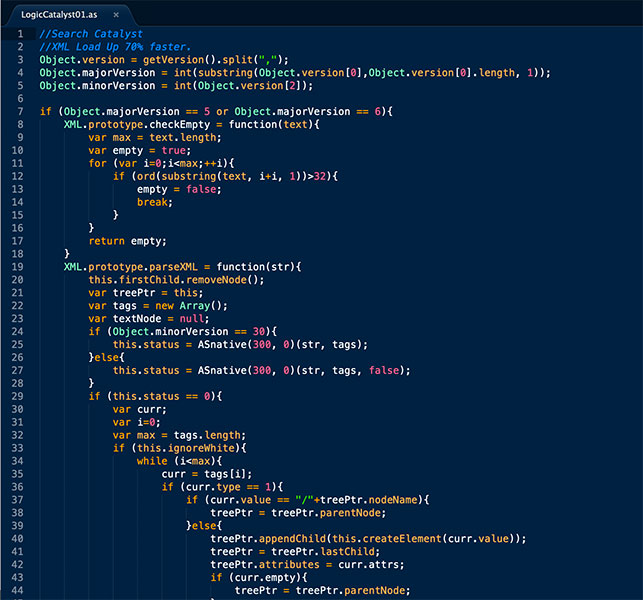
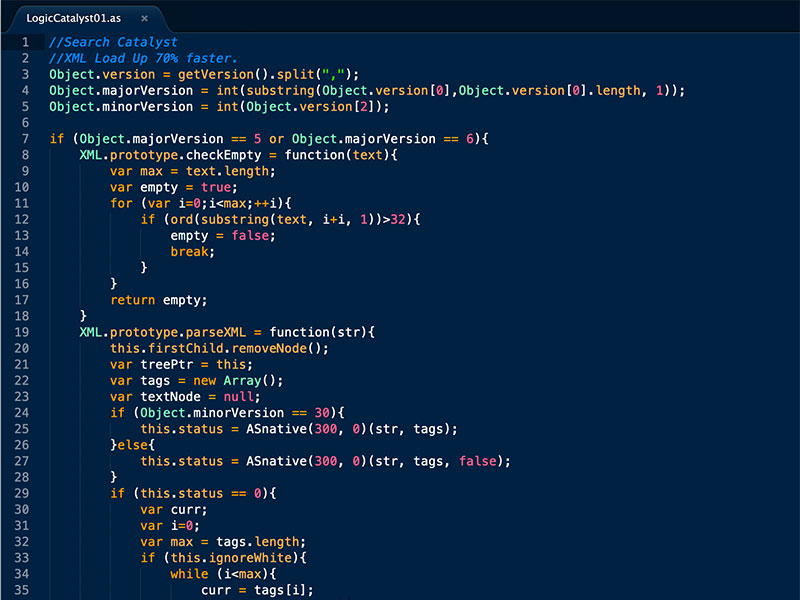
corrected many layout issues

Changed region(s): [[0.0, 0.0, 1.0, 1.0], [0.0, 0.24, 0.0622, 1.0]]

diff --git a/pages/ml-vs-uber.jsx b/pages/ml-vs-uber.jsx
@@ -8,7 +8,7 @@ const UniversityArticle = () => {
     <Layout footer={5}>
       {/* Page Banner Section Start */}
       <section
-        className="page-banner pt-210 rpt-150 pb-50 rel z-1"
+        className="page-banner pt-70 rpt-150 pb-50 rel z-1"
         style={{ backgroundImage: "url(assets/images/hero/hero-two-bg.png)" }}
       >
         <div className="container container-1290">
@@ -32,8 +32,8 @@ const UniversityArticle = () => {
       </div>
       {/* Project Details Image end */}
       {/* Project Details Content Area start */}
-      <section className="project-details-area rel z-1">
-        <div className="container container-1290">
+      <section className="project-details-area pb-50 rel z-1">
+        <div className="container container-1210">
           <div className="banner-inner">
             <div className="row">
               <div className="col-xl-8">
@@ -51,9 +51,12 @@ const UniversityArticle = () => {
                     <a href="#">Comment (5)</a>
                   </li>*/}
                 </ul>
-                <h1 className="page-title wow fadeInUp delay-0-3s">
-                  Duly Noded: Michael Logic™ vs. Uber Engineering Team
+                <h1 className="university-title wow fadeInUp delay-0-3s">
+                  Duly Noded:
                 </h1>
+                <h2>
+                   Michael Logic™ vs. Uber Engineering Team
+                </h2>
               </div>
             </div>
           </div>
@@ -62,9 +65,9 @@ const UniversityArticle = () => {
       {/* Project Details Content Area End */}
 
       {/* University Article Kickoff start */}
-      <section className="university-kickoff-area pb-100 rpb-70 rel z-1">
-        <div className="container container-1210">
-          <div className="section-title mb-40 wow fadeInUp delay-0-2s">
+      <section className="university-kickoff-area pb-60 rpb-70 rel z-1">
+        <div className="container container-1210 justify-content-center">
+          <div className="section-title col-lg-8 mb-40 wow fadeInUp delay-0-2s">
             <h2>Gain insight on cloud system architecture that performs at the level of Uber's engineering.</h2>
             <div className="text mt-30">
               <h4>
@@ -103,7 +106,7 @@ const UniversityArticle = () => {
             </div>
           </div>
           
-          <div className="why-choose-item wow fadeInUp delay-0-2s">
+          <div className="why-choose-item col-lg-8 wow fadeInUp delay-0-2s">
             <div className="why-choose-header">
               <i className="far fa-chevron-right" />
               <h5>High-throughput and low-latency requirements</h5>
@@ -114,7 +117,7 @@ const UniversityArticle = () => {
             </p>
           </div>
 
-          <div className="why-choose-item wow fadeInUp delay-0-2s">
+          <div className="why-choose-item col-lg-8 wow fadeInUp delay-0-2s">
             <div className="why-choose-header">
               <i className="far fa-chevron-right" />
               <h5>CPU intensive workload</h5>
@@ -125,7 +128,7 @@ const UniversityArticle = () => {
             </p>
           </div>
 
-          <div className="why-choose-item wow fadeInUp delay-0-2s">
+          <div className="why-choose-item col-lg-8 wow fadeInUp delay-0-2s">
             <div className="why-choose-header">
               <i className="far fa-chevron-right" />
               <h5>Non-disruptive background loading</h5>
@@ -138,7 +141,7 @@ const UniversityArticle = () => {
             </p>
           </div>
 
-          <div className="text mt-30">
+          <div className="text col-lg-8 mt-30">
             <p>
               As one may have experienced, Uber's engineering team used Go to produce a reliable user 
               experience.  Their geofence microservice performs well despite the decision to settle for
@@ -151,7 +154,7 @@ const UniversityArticle = () => {
       {/* How We Works end */}
 
       {/* Mike Logic Game Dev Background start */}
-      <div className="university-gamer-area pt-120 pb-90 rpt-100 rpb-70">
+      <div className="university-gamer-area pb-90 rpt-100 rpb-70">
         <div className="row justify-content-center">
           <div className="col-xl-7 col-lg-9 wow fadeInUp delay-0-2s">
             <div className="section-title style-two text-center mb-70">
@@ -203,7 +206,7 @@ const UniversityArticle = () => {
               <div className="project-item style-five wow fadeInUp delay-0-2s">
                 <div className="image">
                   <img
-                    src="assets/images/projects/university/flash_wordsearch02.jpg"
+                    src="assets/images/university/flash_wordsearch02.jpg"
                     alt="BennyWordSearch"
                   />
                 </div>
@@ -219,7 +222,7 @@ const UniversityArticle = () => {
               <div className="project-item style-five wow fadeInUp delay-0-2s">
                 <div className="image">
                   <img
-                    src="assets/images/projects/university/flash_wordsearch.jpg"
+                    src="assets/images/university/flash_wordsearch.jpg"
                     alt="BennyWordSearch"
                   />
                 </div>
@@ -235,7 +238,7 @@ const UniversityArticle = () => {
               <div className="project-item style-five wow fadeInUp delay-0-2s">
                 <div className="image">
                   <img
-                    src="assets/images/projects/university/flash_molemath.jpg"
+                    src="assets/images/university/flash_molemath.jpg"
                     alt="MoleMath"
                   />
                 </div>
@@ -251,7 +254,7 @@ const UniversityArticle = () => {
               <div className="project-item style-five wow fadeInUp delay-0-2s">
                 <div className="image">
                   <img
-                    src="assets/images/projects/university/flash_goohealthy.jpg"
+                    src="assets/images//university/flash_goohealthy.jpg"
                     alt="GooHealthy"
                   />
                 </div>
@@ -266,7 +269,7 @@ const UniversityArticle = () => {
           </Swiper>
         </div>
         <div className="container container-1210">
-          <div className="mb-40 wow fadeInUp delay-0-2s">
+          <div className="col-lg-8 mb-40 wow fadeInUp delay-0-2s">
             <p>
               Before discussing a Michael Logic type of solution of Uber's needs, it is insightful
               know the background story for my current methodology.  I started delivering professional
@@ -278,7 +281,7 @@ const UniversityArticle = () => {
             <h4>
               The Game Loop
             </h4>
-            <div className="row justify-content-center image wow fadeInUp delay-0-2s">
+            <div className="row justify-content-center pb-30 image wow fadeInUp delay-0-2s">
               <img
                 src="assets/images/university/game-loop-fixed.png"
                 alt="Game Loop Mastered"
@@ -315,18 +318,18 @@ const UniversityArticle = () => {
 
       {/* Myths about NodeJS Area start */}
       <section className="university-node-area py-60 rel z-1">
-        <div className="container container-1290">
-          <div className="row justify-content-between align-items-center">
+        <div className="container container-1210">
+          <div className="justify-content-between align-items-center">
             <div className="col-lg-6">
-              <div className="service-about-image wow fadeInLeft delay-0-2s">
+              <div className="service-about-image wow fadeInUp delay-0-2s">
                 <img
                   src="assets/images/university/node_event_loop.png"
                   alt="NodeJS Event Loop"
                 />
               </div>
             </div>
-            <div className="col-xl-5 col-lg-6 mx-xl-auto">
-              <div className="about-content wow fadeInRight delay-0-4s">
+            <div className="col-lg-8 mx-xl-auto">
+              <div className="about-content wow fadeInUp delay-0-4s">
                 <div className="section-title mb-40">
                   <span className="sub-title mb-15">"Don't Go All Static on me ;-)  LOL"</span>
                   <h3>False Myths about NodeJS</h3>
@@ -408,111 +411,8 @@ const UniversityArticle = () => {
           </div>
         </div>
 
-        <div className="container-fluid">
-          <Swiper
-            {...sliderProps.galleryFiveActive}
-            className="gallery-five-active"
-          >
-            <SwiperSlide>
-              <div className="project-item style-five wow fadeInUp delay-0-2s">
-                <div className="image">
-                  <img
-                    src="assets/images/university/actionscript_code.jpg"
-                    alt="ActionScript Code"
-                  />
-                </div>
-                <div className="content">
-                  <h4>
-                    ActionScript Gaming
-                  </h4>
-                </div>
-              </div>
-            </SwiperSlide>{" "}
-
-            <SwiperSlide>
-              <div className="project-item style-five wow fadeInUp delay-0-2s">
-                <div className="image">
-                  <img
-                    src="assets/images/university/flash_alphabuzz.jpg"
-                    alt="AlphaBuzz"
-                  />
-                </div>
-                <div className="content">
-                  <h4>
-                    AlphaBuzz: teaches kids typing
-                  </h4>
-                </div>
-              </div>
-            </SwiperSlide>{" "}
-
-            <SwiperSlide>
-              <div className="project-item style-five wow fadeInUp delay-0-2s">
-                <div className="image">
-                  <img
-                    src="assets/images/projects/university/flash_wordsearch02.jpg"
-                    alt="BennyWordSearch"
-                  />
-                </div>
-                <div className="content">
-                  <h4>
-                    Benny Wordz: teaches kids spelling
-                  </h4>
-                </div>
-              </div>
-            </SwiperSlide>{" "}
-
-            <SwiperSlide>
-              <div className="project-item style-five wow fadeInUp delay-0-2s">
-                <div className="image">
-                  <img
-                    src="assets/images/projects/university/flash_wordsearch.jpg"
-                    alt="BennyWordSearch"
-                  />
-                </div>
-                <div className="content">
-                  <h4>
-                    Benny Wordz: teaches kids spelling
-                  </h4>
-                </div>
-              </div>
-            </SwiperSlide>{" "}
-
-            <SwiperSlide>
-              <div className="project-item style-five wow fadeInUp delay-0-2s">
-                <div className="image">
-                  <img
-                    src="assets/images/projects/university/flash_molemath.jpg"
-                    alt="MoleMath"
-                  />
-                </div>
-                <div className="content">
-                  <h4>
-                    Mole Math: teaches kids math
-                  </h4>
-                </div>
-              </div>
-            </SwiperSlide>{" "}
-
-             <SwiperSlide>
-              <div className="project-item style-five wow fadeInUp delay-0-2s">
-                <div className="image">
-                  <img
-                    src="assets/images/projects/university/flash_goohealthy.jpg"
-                    alt="GooHealthy"
-                  />
-                </div>
-                <div className="content">
-                  <h4>
-                    GooHealthy: teaches kids nutrition
-                  </h4>
-                </div>
-              </div>
-            </SwiperSlide>{" "}
-            
-          </Swiper>
-        </div>
         <div className="container container-1210">
-          <div className="mb-40 wow fadeInUp delay-0-2s">
+          <div className="col-lg-8 wow fadeInUp delay-0-2s">
             <p>
               Michael Logic "Paperclip" Architecture is intended to support super-optimized, reactive
               methodologies that sport a highly cooridinated dance of a stack that is dynamically typed
@@ -520,7 +420,7 @@ const UniversityArticle = () => {
             </p>
             <div className="row justify-content-center image wow fadeInUp delay-0-2s">
               <img
-                src="assets/images/university/ml_paperclip_architecture.jpg"
+                src="assets/images/university/ml_paperclip_architecture_web.jpg"
                 alt="ML Paperclip Architecture"
               />
             </div>
@@ -553,7 +453,7 @@ const UniversityArticle = () => {
               Look at the Julia script output below.  We can confirm that you can fit quite a bit of geofences objects into
               only 100 kilobytes of JSON data ... approximately over 133,000 geofences! wow
             </p>
-            <div className="row justify-content-center image wow fadeInUp delay-0-2s">
+            <div className="row justify-content-center pb-30 image wow fadeInUp delay-0-2s">
               <img
                 src="assets/images/university/julia_100k_data_test.png"
                 alt="Julia 100k Data Test"
@@ -573,7 +473,7 @@ const UniversityArticle = () => {
 
       {/* jLab Area start */}
       <section className="university-node-area py-60 rel z-1">
-        <div className="container container-1290">
+        <div className="container container-1210">
           <div className="row justify-content-between align-items-center">
             <div className="col-lg-6">
               <div className="service-about-image wow fadeInLeft delay-0-2s">
@@ -612,7 +512,7 @@ const UniversityArticle = () => {
 
       {/* Uber Disclaimer Area start */}
       <section className="university-node-area py-60 rel z-1">
-        <div className="container container-1290">
+        <div className="container container-1210">
           <div className="row justify-content-between align-items-center">
             
             <div className="col-xl-5 col-lg-6 mx-xl-auto">

diff --git a/public/assets/css/style.css b/public/assets/css/style.css
@@ -9075,3 +9075,7 @@ blockquote {
   top: 50px;
   right: 50px;
 }
+
+
+.university-title {
+  font-size: 50px; }